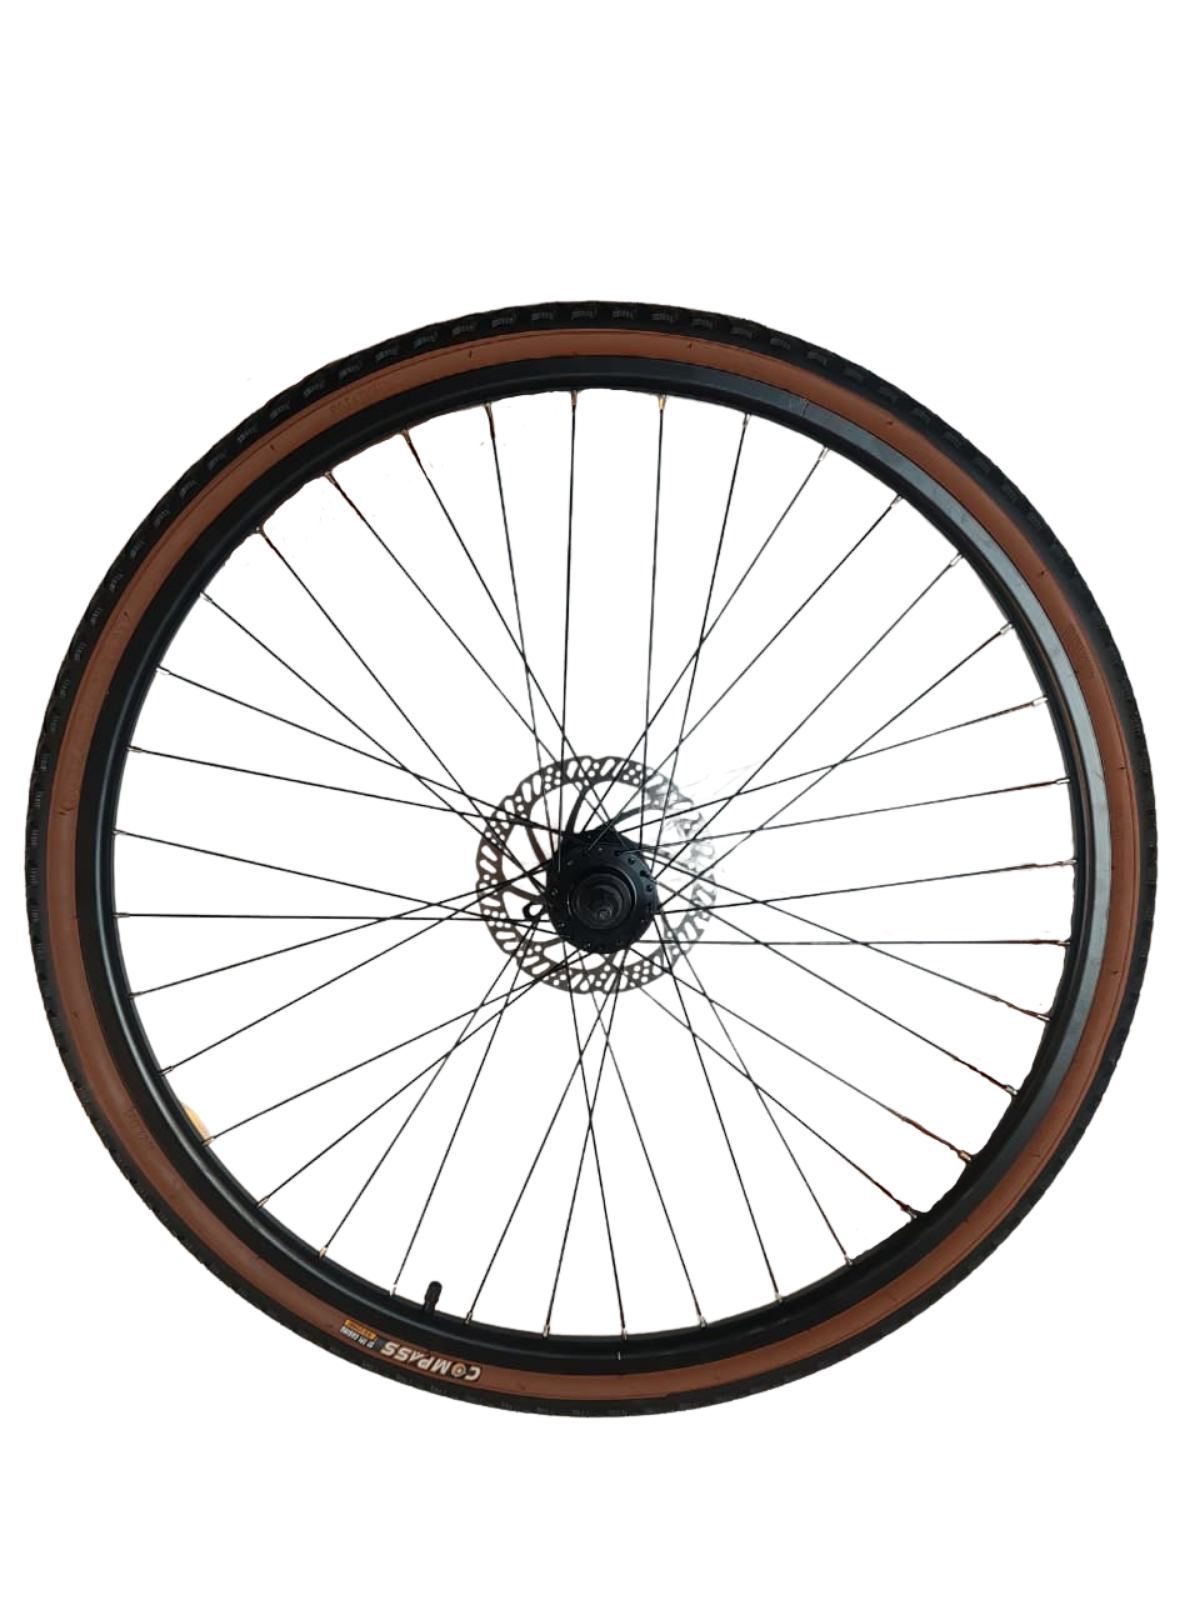
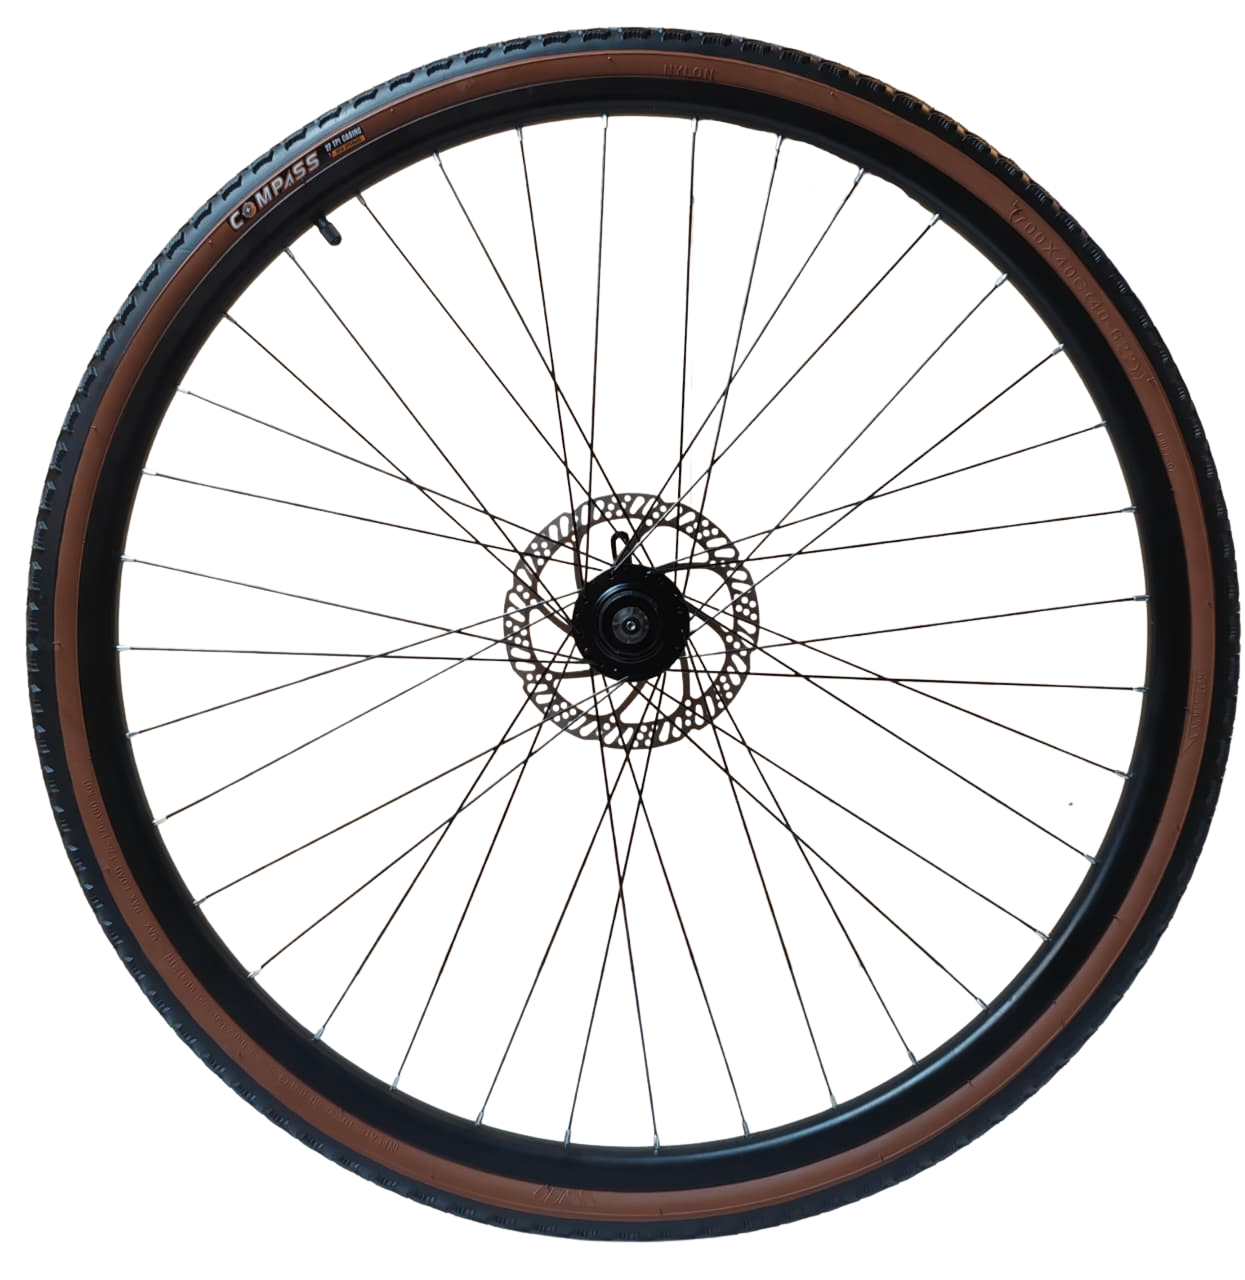
fix

diff --git a/index.html b/index.html
@@ -455,7 +455,8 @@ const PARTS = [
     accent: '#666055',
     position: { x: '66.5%', y: '15%', w: '6.5%', z: 4 },
     images: {
-      p1: 'piezas/tija p1.png'
+      p1: 'piezas/tija p1.png',
+      p2: 'piezas/tija p2.png'
     },
     materials: 'Aluminio anodizado, pernería de acero y cabeza de ajuste con abrazadera.',
     fn: 'Conecta el asiento con el cuadro y fija la altura de pedaleo. Un cambio pequeño en esta pieza modifica mucho la postura del cuerpo.',
@@ -584,6 +585,23 @@ const PARTS = [
     fact: 'La relación entre largo de biela y número de dientes define cómo se transforma la fuerza del cuerpo en desarrollo mecánico.'
   },
   {
+    id: 'desviador-delantero',
+    number: '15',
+    name: 'Desviador delantero',
+    shortName: 'Desv. del.',
+    bg: '#eef5f2',
+    accent: '#2a7a5c',
+    position: { x: '43%', y: '62%', w: '8%', z: 6 },
+    images: {
+      p1: 'piezas/desviador delantero p1.png',
+      p2: 'piezas/desviador delantero p2.png'
+    },
+    materials: 'Cuerpo de aluminio, guía móvil, resorte de retorno y cable de acero.',
+    fn: 'Empuja la cadena entre los platos delanteros para cambiar la relación de desarrollo en la transmisión delantera.',
+    eng: 'Debe alinear la cadena con precisión sobre cada corona sin rozar en marchas intermedias, actuando sobre una guía muy corta con poco margen de error.',
+    fact: 'El desviador delantero fue clave cuando las bicicletas pasaron de una sola a varias coronas en el plato; hoy muchas montañas usan un solo plato amplio y prescinden de él.'
+  },
+  {
     id: 'cassete',
     number: '12',
     name: 'Cassete',
@@ -598,6 +616,23 @@ const PARTS = [
     fn: 'Ofrece distintas relaciones de transmisión en la rueda trasera. Cambiar de piñón modifica el equilibrio entre fuerza y velocidad.',
     eng: 'El tamaño escalonado de los dientes permite variar desarrollo sin desmontar nada. Cada salto entre coronas modifica la cadencia disponible para el ciclista.',
     fact: 'El cassette reúne varios piñones en un solo cuerpo desmontable; esa modularidad facilita el cambio de relaciones y el mantenimiento.'
+  },
+  {
+    id: 'desviador-trasero',
+    number: '16',
+    name: 'Desviador trasero',
+    shortName: 'Desv. tras.',
+    bg: '#f2f0ec',
+    accent: '#5c5648',
+    position: { x: '76%', y: '56%', w: '9%', z: 7 },
+    images: {
+      p1: 'piezas/desviador trasero p1.png',
+      p2: 'piezas/desviador trasero p2.png'
+    },
+    materials: 'Jaula de aluminio, rodillos de guía, muelle de tensión, perno de fijación y cable.',
+    fn: 'Mueve la cadena entre los piñones del cassette trasero, ajustando la relación de marchas según el terreno y la cadencia.',
+    eng: 'Combina un brazo paralelogramático que sigue los piñones y un muelle que mantiene la tensión de cadena; el ángulo de la jaula define qué tan bien indexa cada salto.',
+    fact: 'El desviador trasero moderno consolidó la indexación por palanca en el siglo XX y sigue definiendo la precisión del cambio en transmisiones mecánicas.'
   },
   {
     id: 'biela-izquierda',
